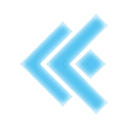
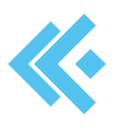
Shirt nav buttons implemented

diff --git a/src/components/ViewShirt.jsx b/src/components/ViewShirt.jsx
@@ -106,24 +106,14 @@ export const ViewShirt = ({ shirts, updateShirts }) => {
           <div
             key={`shirt-${shirt.id}`}
             className={`${
+              // Creates the carousel functionality, hiding any object from the shirt array that doesn't match the current index
               i === index
                 ? "flex justify-between h-[768px] w-[1645px] items-center"
                 : "hidden"
             }`}
           >
-            {/* ^^^ The above code creates the carousel functionality, hiding any object from the shirt array that doesn't match the current index*/}
-            {/* vvv Previous arrow SVG */}
-            <div className="__previous-arrow__ w-[126px]">
-              <svg width="124px" height="104px" className="translate-x-10">
-                <path
-                  fillRule="evenodd"
-                  fill="rgb(85, 195, 240)"
-                  d="M101.56,86.361 L65.323,65.569 C55.191,59.673 55.191,45.13 65.323,39.117 L101.56,18.325 C111.234,12.403 123.990,19.759 123.990,31.551 L123.990,73.135 C123.990,84.926 111.234,92.283 101.56,86.361 ZM48.564,68.854 L92.475,94.253 C87.392,103.40 75.727,107.43 65.914,101.367 L9.703,68.854 C-3.249,61.361 -3.249,42.630 9.703,35.138 L65.914,2.624 C75.727,-3.51 87.392,0.951 92.475,9.739 L48.564,35.138 C35.611,42.630 35.611,61.361 48.564,68.854 Z"
-                  onClick={handlePrevious}
-                />
-              </svg>
-            </div>
-
+            <div onClick={handlePrevious} className="__shirt-pattern-nav__ w-[128px] h-[128px] translate-x-10" />
+            
             {/* Info Container, Username + User Image, Pattern Choices, Price, and isOwner menu (favorite/edit/delete)*/}
             <div className="__user-pattern-price-interaction__ flex flex-col items-center w-[740px] h-[768px]">
               <div className="__username-image__ flex justify-between self-start relative">
@@ -329,16 +319,7 @@ export const ViewShirt = ({ shirts, updateShirts }) => {
                 );
               })}
             </div>
-            <div className="__next-arrow__ w-[124px]">
-              <svg width="125px" height="104px">
-                <path
-                  fillRule="evenodd"
-                  fill="rgb(85, 195, 240)"
-                  onClick={handleNext}
-                  d="M22.943,86.361 L58.676,65.569 C68.808,59.673 68.808,45.13 58.676,39.117 L22.943,18.325 C12.765,12.403 0.9,19.759 0.9,31.551 L0.9,73.135 C0.9,84.926 12.765,92.283 22.943,86.361 ZM75.435,68.854 L31.524,94.253 C36.607,103.40 48.272,107.43 58.85,101.367 L114.296,68.854 C127.249,61.361 127.249,42.630 114.296,35.138 L58.85,2.624 C48.272,-3.51 36.607,0.951 31.524,9.739 L75.435,35.138 C88.388,42.630 88.388,61.361 75.435,68.854 Z"
-                />
-              </svg>
-            </div>
+            <div onClick={handleNext} className="__shirt-pattern-nav__ w-[128px] h-[128px] -scale-100" />
           </div>
         );
       })}

diff --git a/src/index.css b/src/index.css
@@ -51,3 +51,15 @@ html {
 .__button-pattern-unchecked__ {
   background-image: url("/src/assets/pattern_select_unchecked.png")
 }
+
+.__shirt-pattern-nav__ {
+  background-image: url("/src/assets/shirt_pattern.png")
+}
+
+.__shirt-pattern-nav__:hover {
+  background-image: url("/src/assets/shirt_pattern_hover.png")
+}
+
+.__shirt-pattern-nav__:active {
+  background-image: url("/src/assets/shirt_pattern_active.png")
+}
